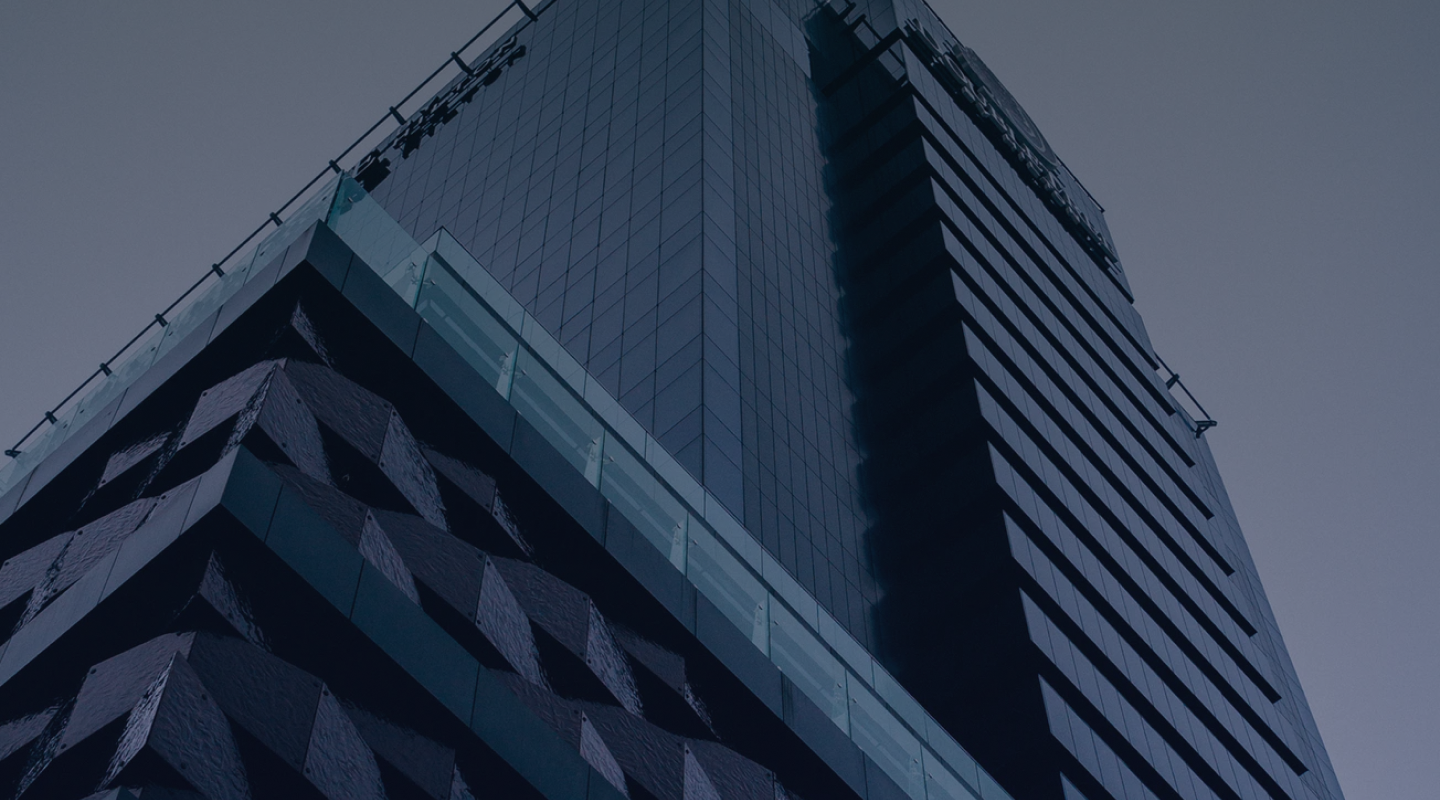
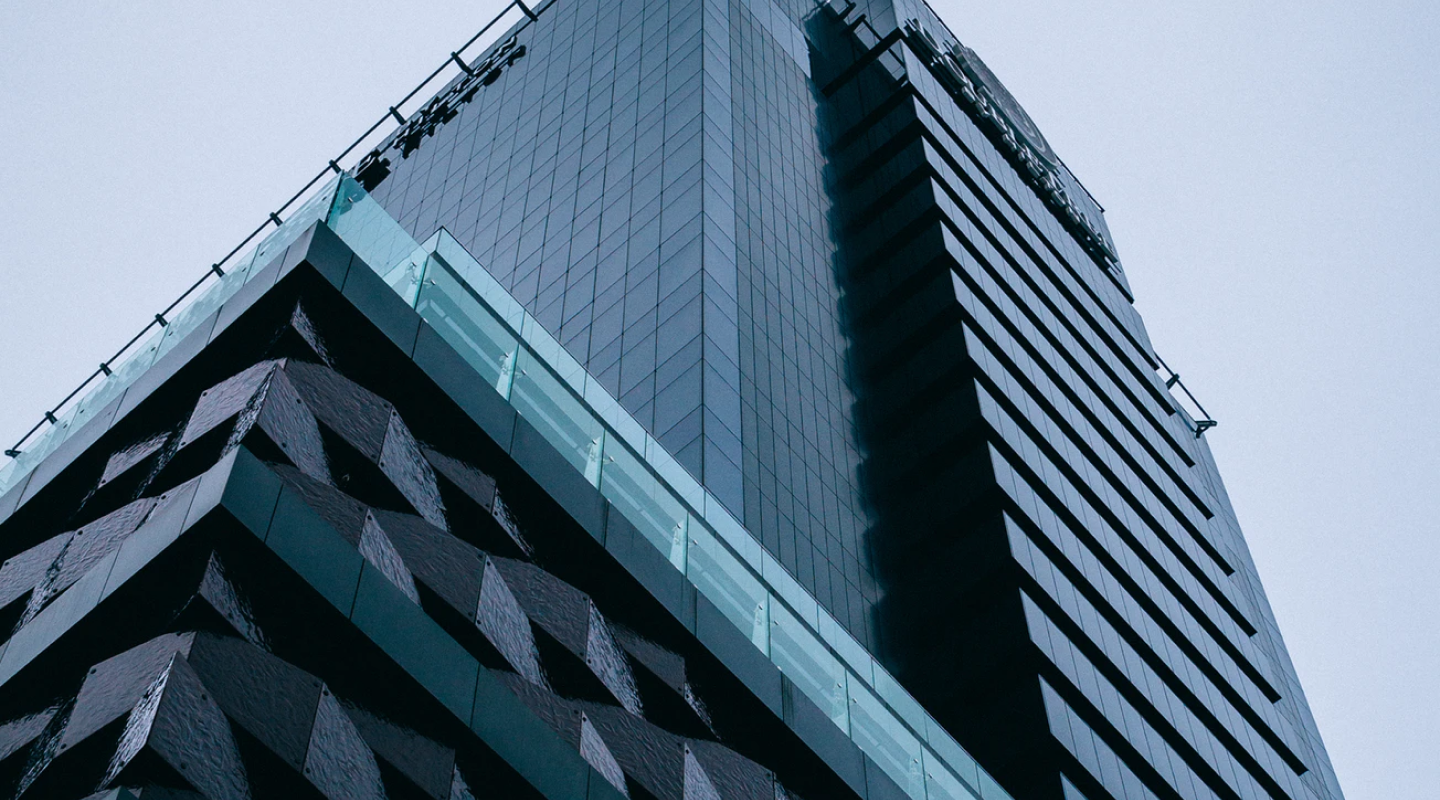
feat: implement bg picture change

diff --git a/fancy-weather/js/display.js b/fancy-weather/js/display.js
@@ -1,6 +1,8 @@
-import { getWeatherData, getGeoData } from './fetch';
-import { apiKeys, settings, dictionary } from './globals';
-import { TimeFormater, decimalToDegrees } from './utilities';
+import { getWeatherData, getGeoData, getImageURL } from './fetch';
+import {
+  apiKeys, settings, dictionary, languages,
+} from './globals';
+import { TimeFormater, decimalToDegrees, bgImageTemplate } from './utilities';
 import {
   dateTime, temperatureToday, weatherIcon, weatherDataList, forecast,
 } from './weatherTime';
@@ -9,9 +11,11 @@ import {
 } from './location';
 
 class Display {
-  constructor(getWeatherDataFn, getGeoDataFn) {
+  constructor(getWeatherDataFn, getGeoDataFn, getImageURLFn, bgImageTemplateFn) {
     this.getWeatherData = getWeatherDataFn;
     this.getGeoData = getGeoDataFn;
+    this.getImageURL = getImageURLFn;
+    this.bgImageTemplate = bgImageTemplateFn;
   }
 
   updateTime() {
@@ -20,7 +24,7 @@ class Display {
   }
 
   initTimeUpdater() {
-    setInterval(() => { this.updateTime() }, (1000 * 60));
+    setInterval(() => { this.updateTime(); }, (1000 * 60));
   }
 
   insertDataToWeatherCluster(locationData, weatherData) {
@@ -50,6 +54,11 @@ class Display {
     longitude.innerText = `${dictionary.longitude[settings.language]}: ${this.lngDegrees.degrees}°${(this.lngDegrees.minutes).slice(0, 2)}'`;
   }
 
+  insertBG(imageURL) {
+    document.body.style.background = this.bgImageTemplate.getString(imageURL);
+    document.body.style.backgroundSize = 'cover';
+  }
+
   async getData() {
     const locationData = await this.getGeoData(
       settings.location,
@@ -67,24 +76,41 @@ class Display {
     return { locationData, weatherData };
   }
 
+  async getDataEn() {
+    const locationData = await this.getGeoData(
+      settings.location,
+      apiKeys.location,
+      languages.english,
+    );
+
+    const imageURL = await this.getImageURL(locationData, apiKeys.image);
+
+    return { locationData, imageURL };
+  }
+
   async drawWeather() {
     const data = await this.getData();
-
     this.insertDataToWeatherCluster(data.locationData, data.weatherData);
   }
 
   async drawMap() {
     const data = await this.getData();
-
     this.insertDataToMapCluster(data.locationData);
+  }
+
+  async updateBG() {
+    const dataEn = await this.getDataEn();
+
+    if (dataEn.imageURL) this.insertBG(dataEn.imageURL);
   }
 
   async drawEverything() {
     const data = await this.getData();
+    const dataEn = await this.getDataEn();
 
     this.insertDataToWeatherCluster(data.locationData, data.weatherData);
     this.insertDataToMapCluster(data.locationData, data.weatherData);
+    if (dataEn.imageURL) this.insertBG(dataEn.imageURL);
   }
-
 }
-export const display = new Display(getWeatherData, getGeoData);
+export const display = new Display(getWeatherData, getGeoData, getImageURL, bgImageTemplate);

diff --git a/fancy-weather/js/fetch.js b/fancy-weather/js/fetch.js
@@ -21,3 +21,40 @@ export async function getGeoData(place, apiKey, language) {
       || '',
   };
 }
+
+export async function getImageURL(place, apiKeys) {
[8 lines of base64/hex data omitted]
+  console.log(place.city)
+
[1 lines of base64/hex data omitted]
+  // let key = apiKeys.getKey();
+  let queryUrl = `https://api.unsplash.com/photos/random?query=urban,${place.city},${place.country}&client_id=${key}&orientation=landscape`;
+
+  console.log(`https://api.unsplash.com/photos/random?query=towm,${place.country},${place.city}&client_id=${key}&orientation=landscape`)
+
+  async function returnData(res) {
+    const responseData = await res.json();
+    return responseData.urls.regular;
+  }
+
+  let response = await fetch(queryUrl);
+
+  if (response.status === 403) return false;
+
+  // for (let i = 0; response.status === 403 || i < 4; i++) {
+  //   key = apiKeys.updateKey();
+  //   queryUrl = `https://api.unsplash.com/photos/random?query=town,${place.city}&client_id=${key}&orientation=landscape`;
+  //   response = await fetch(queryUrl);
+  // }
+
+  // console.log(response);
+
+  return returnData(response);
+}

diff --git a/fancy-weather/js/utilities.js b/fancy-weather/js/utilities.js
@@ -15,6 +15,31 @@ export class TimeFormater {
   getTime() { return this.date.toTimeString().split(' ')[0].slice(0, 5); }
 }
 
+class ImageApiKeySwitcher {
+  constructor() {
+    this.counter = 4;
+    this.keys = [
[4 lines of base64/hex data omitted]
+    ];
+    this.currentKey = this.keys[0];
+  }
+
+  updateKey() {
+    this.counter++;
+    this.currentKey = this.keys[this.counter % 4];
+
+    return this.currentKey;
+  }
+
+  getKey() {
+    return this.currentKey;
+  }
+}
+export const imageApiKeySwitcher = new ImageApiKeySwitcher();
+
 export function decimalToDegrees(decimal) {
   const splitted = decimal.toString().split('.');
   return {
@@ -22,3 +47,13 @@ export function decimalToDegrees(decimal) {
     minutes: (splitted[1] / 60).toString(),
   };
 }
+
+export const bgImageTemplate = {
+  template: ['linear-gradient(180deg, rgba(8, 15, 26, 0.59) 0%, rgba(17, 17, 46, 0.46) 100%), url(',
+    ') no-repeat center center fixed',
+  ],
+
+  getString(url) {
+    return this.template[0] + url + this.template[1];
+  },
+};

diff --git a/fancy-weather/js/globals.js b/fancy-weather/js/globals.js
@@ -1,10 +1,13 @@
+import { imageApiKeySwitcher } from './utilities';
+
 export const apiKeys = {
   weather: '43ca44b17c4017837e555b7a2fddd02d',
   location: 'dfcea8096a95496ba653f501109c66bf',
   map: 'AIzaSyBWWZnqHV3asW7DM3yCQ0dxSHjj_J9LkwE',
+  image: imageApiKeySwitcher,
 };
 
-const languages = {
+export const languages = {
   english: 'en',
   russian: 'ru',
   belarus: 'be',

diff --git a/fancy-weather/sass/_style.scss b/fancy-weather/sass/_style.scss
@@ -4,7 +4,7 @@ body {
   width: 100wh;
   height: 100vh;
 
-  background: url(../assets/bg-default.png) no-repeat center center fixed;
+  background: linear-gradient(180deg, rgba(8, 15, 26, 0.59) 0%, rgba(17, 17, 46, 0.46) 100%), url(../assets/bg-default.png) no-repeat center center fixed;
   background-size: cover;
 
   @include marginCollapseFix;

diff --git a/fancy-weather/js/buttonUpdate.js b/fancy-weather/js/buttonUpdate.js
@@ -9,5 +9,5 @@ spinner.classList.add('spinner');
 updateButton.appendChild(spinner);
 
 updateButton.addEventListener('click', () => {
-  display.drawWeather();
+  display.updateBG();
 });
